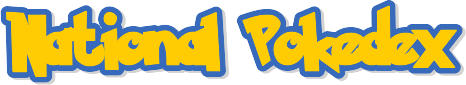
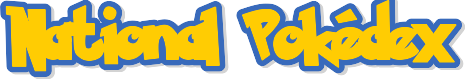
Standardized the pokemon/dex word (version 1.3)

diff --git a/index.html b/index.html
@@ -11,7 +11,7 @@
 
 
 
-    <title>National PokeDex</title>
+    <title>National Pokédex</title>
 </head>
 <body>
 
@@ -24,7 +24,7 @@
         <div class="container" >
             <form id="pokemonForm">
             <div class="searchBar">
-                <input type="text" placeholder="Search for a pokemon" id="pokemonName">
+                <input type="text" placeholder="Search for a Pokémon" id="pokemonName">
                 <button type="submit"><i class="fas fa-search"></i></button>
             </div>
             </form>

diff --git a/script.js b/script.js
@@ -7,7 +7,7 @@ async function fetchData() {
     const pElementDescription = document.getElementById("pDescription");
 
     if (pokemonName == '') {
-        alert("Please type the name of the Pokemon.");
+        alert("Please enter the Pokémon name you want to search for.");
     }
 
     const response = await fetch(`https://pokeapi.co/api/v2/pokemon/${pokemonName}`);
